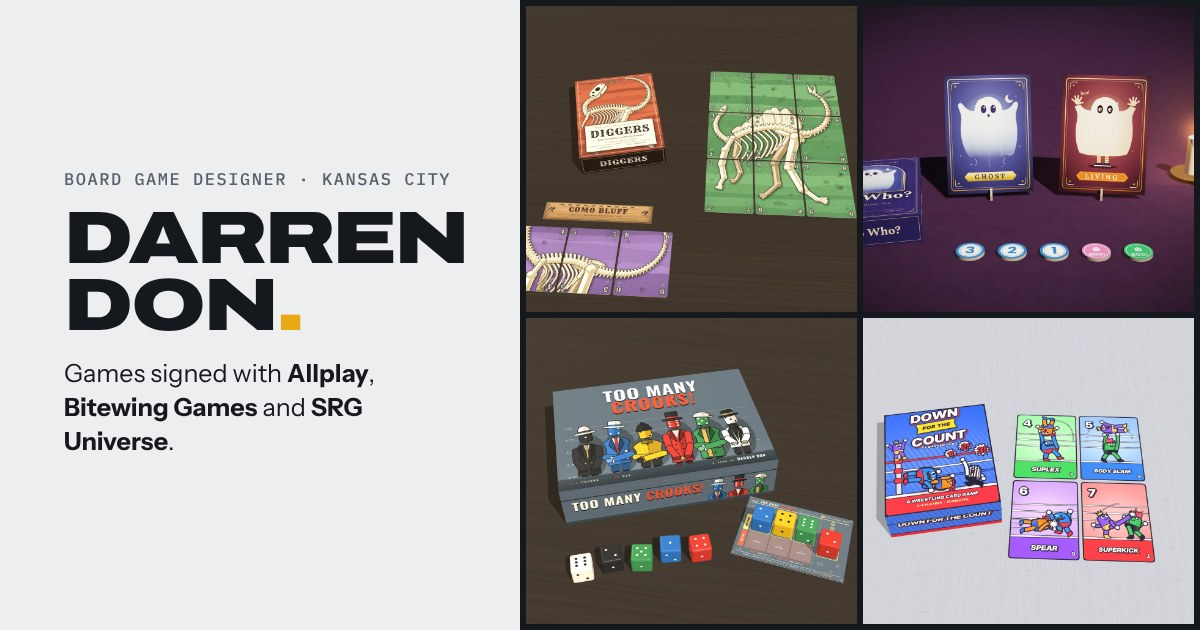
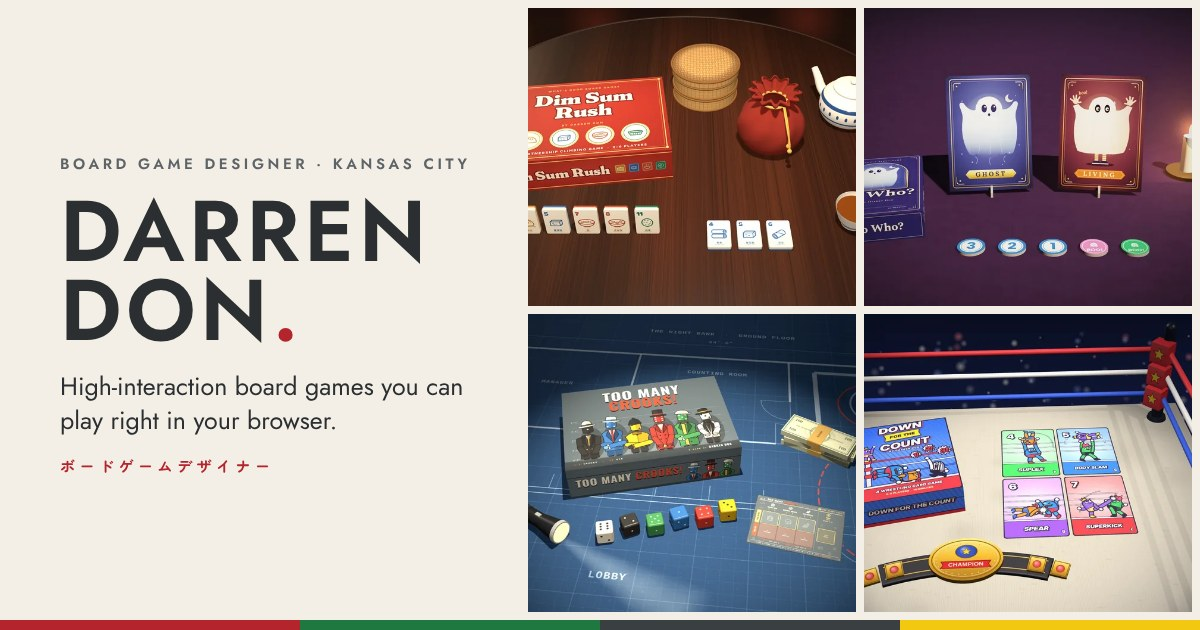
Down for the Count: themed ring render; new site share image
New ?scene=themed preset (zero overlaps): box, four move cards and a championship belt
inside a wrestling ring. First image on its page and the cards. Every card's image now
fills its frame. Site share image rebuilt in the new palette and type with four themed
renders.

Claude-Session: https://claude.ai/code/session_0173vR462e8fzA9Jk4LU5kv7

diff --git a/games/down-for-the-count/img/src/scene.html b/games/down-for-the-count/img/src/scene.html
@@ -155,9 +155,238 @@
     frame([-12.0, 0, -4.2], [13.0, 1.25, 4.4], 64, 0, 0.97);
   }
 
+  if (SCENE === 'themed') await themed();
+
   renderer.render(scene, camera);
   await new Promise((r) => setTimeout(r, 60)); renderer.render(scene, camera);
+  if (q.get('check')) window.__check = doCheck();
   window.__done = true;
+
+  // ================================================================ ?scene=themed
+  // The box and a run of move cards laid out inside the ring: a canvas mat under an arena spotlight,
+  // a corner post with its turnbuckles and three ropes running off along the back and right side,
+  // the crowd dark beyond the apron, and a championship belt on the mat.
+  // (Everything here is new and only built for this preset; the other scenes are untouched.)
+  async function themed() {
+    const named = (o, n) => { o.name = n; return o; };
+    // what the silhouette check looks at: everything that sits on the mat
+    window.__objs = [];
+    const track = (o, n, env) => { named(o, n); window.__objs.push({ o, env: !!env }); return o; };
+
+    // ---- arena: dark house, a spotlight on the ring
+    table.visible = false;
+    scene.fog = new THREE.Fog(C('#0E1430'), 46, 95);
+    function arenaTexture() {
+      const c = document.createElement('canvas'); c.width = 1600; c.height = 1000; const g = c.getContext('2d');
+      const grd = g.createLinearGradient(0, 0, 0, 1000); grd.addColorStop(0, '#0A0E22'); grd.addColorStop(0.5, '#141C40'); grd.addColorStop(1, '#0E1430');
+      g.fillStyle = grd; g.fillRect(0, 0, 1600, 1000);
+      let s = 11; const r = () => (s = (s * 9301 + 49297) % 233280) / 233280;
+      // crowd: soft out-of-focus camera flashes and phone lights in the stands
+      for (let i = 0; i < 140; i++) {
+        const x = r() * 1600, y = 60 + r() * 380, rad = 4 + r() * 16, hue = r();
+        const col = hue < 0.55 ? '255,240,215' : hue < 0.8 ? '150,180,255' : '255,120,120';
+        const rg = g.createRadialGradient(x, y, 0, x, y, rad); rg.addColorStop(0, 'rgba(' + col + ',' + (0.18 + r() * 0.35) + ')'); rg.addColorStop(1, 'rgba(' + col + ',0)');
+        g.fillStyle = rg; g.beginPath(); g.arc(x, y, rad, 0, Math.PI * 2); g.fill();
+      }
+      const t = new THREE.CanvasTexture(c); t.encoding = THREE.sRGBEncoding; return t;
+    }
+    scene.background = arenaTexture();
+
+    // the same key / rim / fill as every other still, a touch lower so the spotlight pool reads
+    key.intensity = 0.26; rim.intensity = 0.22; fill.intensity = 0.06;
+    scene.children.filter((o) => o.isHemisphereLight).forEach((h) => { h.intensity = 0.13; h.color = C('#EEF0FF'); h.groundColor = C('#3A3550'); });
+    const spot = new THREE.SpotLight(0xfff4e0, 1.35, 0, 0.3, 0.65, 1.0);
+    spot.position.set(0.4, 34, 4); spot.target.position.set(0.2, 0, 0.0); scene.add(spot); scene.add(spot.target);
+    const blueWash = new THREE.DirectionalLight(0x7f9cff, 0.12); blueWash.position.set(-12, 6, -14); scene.add(blueWash);
+
+    // ---- the ring: canvas mat over a padded apron
+    const PX = 7.5, PZ = -5.5; // the corner post
+    function canvasTexture() {
+      const c = document.createElement('canvas'); c.width = c.height = 1024; const g = c.getContext('2d');
+      g.fillStyle = '#F1EEE6'; g.fillRect(0, 0, 1024, 1024);
+      let s = 3; const r = () => (s = (s * 9301 + 49297) % 233280) / 233280;
+      for (let i = 0; i < 1024; i += 3) { g.fillStyle = 'rgba(255,255,255,' + (0.03 + r() * 0.03) + ')'; g.fillRect(0, i, 1024, 1); g.fillStyle = 'rgba(40,30,20,' + (0.025 + r() * 0.03) + ')'; g.fillRect(i, 0, 1, 1024); }
+      for (let i = 0; i < 1400; i++) { g.fillStyle = 'rgba(' + (r() < .5 ? '255,255,255' : '50,40,30') + ',' + (0.02 + r() * 0.05) + ')'; g.fillRect(r() * 1024, r() * 1024, 2 + r() * 12, 1 + r() * 2); }
+      // scuffs from boots
+      for (let i = 0; i < 26; i++) { const x = r() * 1024, y = r() * 1024, rad = 20 + r() * 70; const rg = g.createRadialGradient(x, y, 0, x, y, rad); rg.addColorStop(0, 'rgba(90,80,70,0.07)'); rg.addColorStop(1, 'rgba(90,80,70,0)'); g.fillStyle = rg; g.fillRect(x - rad, y - rad, rad * 2, rad * 2); }
+      const t = new THREE.CanvasTexture(c); t.wrapS = t.wrapT = THREE.RepeatWrapping; t.repeat.set(4, 4); t.encoding = THREE.sRGBEncoding; t.anisotropy = 8; return t;
+    }
+    const matW = 80, matD = 80, edge = 1.3;
+    const mat = new THREE.Mesh(new THREE.BoxGeometry(matW, 0.6, matD), [
+      new THREE.MeshStandardMaterial({ color: C('#1E3FA8'), roughness: 0.8 }), new THREE.MeshStandardMaterial({ color: C('#1E3FA8'), roughness: 0.8 }),
+      new THREE.MeshStandardMaterial({ map: canvasTexture(), roughness: 0.96, color: C('#C6C3BC') }), new THREE.MeshStandardMaterial({ color: C('#111' ) }),
+      new THREE.MeshStandardMaterial({ color: C('#1E3FA8'), roughness: 0.8 }), new THREE.MeshStandardMaterial({ color: C('#1E3FA8'), roughness: 0.8 })]);
+    mat.position.set(PX + edge - matW / 2, -0.3, PZ - edge + matD / 2); mat.receiveShadow = true; scene.add(mat);
+    // the apron skirt hanging below the mat edge
+    const apron = new THREE.Mesh(new THREE.BoxGeometry(matW, 14, matD), new THREE.MeshStandardMaterial({ color: C('#16307F'), roughness: 0.9 }));
+    apron.position.set(mat.position.x, -7.6, mat.position.z); scene.add(apron);
+
+    // ---- the corner: steel post, three padded turnbuckles, ropes red / white / blue
+    const corner = new THREE.Group();
+    const steel = new THREE.MeshStandardMaterial({ color: C('#3A3F4C'), roughness: 0.35, metalness: 0.75 });
+    const post = new THREE.Mesh(new THREE.CylinderGeometry(0.25, 0.28, 4.7, 32), steel); post.position.y = 2.35; post.castShadow = true; corner.add(post);
+    const cap = new THREE.Mesh(new THREE.SphereGeometry(0.26, 24, 12, 0, Math.PI * 2, 0, Math.PI / 2), steel); cap.position.y = 4.7; corner.add(cap);
+    const base = new THREE.Mesh(new THREE.CylinderGeometry(0.42, 0.47, 0.16, 32), steel); base.position.y = 0.08; base.castShadow = true; corner.add(base);
+    const ropeH = [1.4, 2.55, 3.7], ropeCol = ['#2F5BE0', '#F4F2EE', '#E8313A'], ropeR = 0.12;
+    function padTexture(col) {
+      const c = document.createElement('canvas'); c.width = 256; c.height = 256; const g = c.getContext('2d');
+      g.fillStyle = col; g.fillRect(0, 0, 256, 256);
+      const grd = g.createLinearGradient(0, 0, 0, 256); grd.addColorStop(0, 'rgba(255,255,255,0.18)'); grd.addColorStop(0.5, 'rgba(255,255,255,0)'); grd.addColorStop(1, 'rgba(0,0,0,0.22)');
+      g.fillStyle = grd; g.fillRect(0, 0, 256, 256);
+      // a yellow comic star, like the box
+      g.save(); g.translate(128, 128); g.fillStyle = '#FFD233'; g.strokeStyle = '#1B1A2A'; g.lineWidth = 9; g.beginPath();
+      for (let i = 0; i < 10; i++) { const a = -Math.PI / 2 + i * Math.PI / 5, rr2 = i % 2 ? 34 : 78; g.lineTo(Math.cos(a) * rr2, Math.sin(a) * rr2); }
+      g.closePath(); g.stroke(); g.fill(); g.restore();
+      const t = new THREE.CanvasTexture(c); t.encoding = THREE.sRGBEncoding; return t;
+    }
+    const padTex = padTexture('#E8313A');
+    const padMat = new THREE.MeshStandardMaterial({ map: padTex, roughness: 0.55 });
+    const padSide = new THREE.MeshStandardMaterial({ color: C('#D52A33'), roughness: 0.55 });
+    for (let i = 0; i < 3; i++) {
+      const y = ropeH[i];
+      // the pad wraps the post on the ring side, facing the middle of the ring (toward -x, +z)
+      const pad = new THREE.Mesh(new THREE.BoxGeometry(0.88, 0.96, 0.64), [padSide, padSide, padSide, padSide, padMat, padSide]);
+      pad.position.set(-0.31, y, 0.31); pad.rotation.y = -Math.PI / 4; pad.castShadow = true; corner.add(pad);
+      const ropeM = new THREE.MeshStandardMaterial({ color: C(ropeCol[i]), roughness: 0.5 });
+      // along the back edge, off to the left
+      const backRope = new THREE.Mesh(new THREE.CylinderGeometry(ropeR, ropeR, 70, 16), ropeM);
+      backRope.rotation.z = Math.PI / 2; backRope.position.set(-35, y, 0); backRope.castShadow = true; corner.add(backRope);
+      // down the right side, toward the camera
+      const sideRope = new THREE.Mesh(new THREE.CylinderGeometry(ropeR, ropeR, 70, 16), ropeM);
+      sideRope.rotation.x = Math.PI / 2; sideRope.position.set(0, y, 35); sideRope.castShadow = true; corner.add(sideRope);
+    }
+    corner.position.set(PX, 0, PZ); scene.add(corner);
+    track(corner, 'ring corner (post, turnbuckles, ropes)', true);
+
+    // ---- the championship belt, laid flat on the mat
+    function plateTexture() {
+      const c = document.createElement('canvas'); c.width = 1024; c.height = 768; const g = c.getContext('2d');
+      const gold = (y0, y1) => { const gr = g.createLinearGradient(0, y0, 0, y1); gr.addColorStop(0, '#FFE58A'); gr.addColorStop(0.45, '#E8B530'); gr.addColorStop(1, '#A8751A'); return gr; };
+      g.fillStyle = gold(0, 768); g.fillRect(0, 0, 1024, 768);
+      g.strokeStyle = '#8A5E12'; g.lineWidth = 14; g.beginPath(); g.ellipse(512, 384, 470, 340, 0, 0, Math.PI * 2); g.stroke();
+      g.strokeStyle = '#FFF2B8'; g.lineWidth = 5; g.beginPath(); g.ellipse(512, 384, 440, 312, 0, 0, Math.PI * 2); g.stroke();
+      // studs round the rim
+      for (let i = 0; i < 28; i++) { const a = i / 28 * Math.PI * 2; const x = 512 + Math.cos(a) * 405, y = 384 + Math.sin(a) * 282; g.fillStyle = '#FFF4C4'; g.beginPath(); g.arc(x, y, 9, 0, 7); g.fill(); g.fillStyle = '#9A6A16'; g.beginPath(); g.arc(x + 2, y + 2, 5, 0, 7); g.fill(); }
+      // red banner + text
+      g.fillStyle = '#D9262F'; g.strokeStyle = '#6E1015'; g.lineWidth = 8;
+      g.beginPath(); g.moveTo(170, 430); g.lineTo(854, 430); g.lineTo(820, 490); g.lineTo(854, 550); g.lineTo(170, 550); g.lineTo(204, 490); g.closePath(); g.fill(); g.stroke();
+      g.font = '900 88px Arial Black, Arial, sans-serif'; g.textAlign = 'center'; g.textBaseline = 'middle';
+      g.fillStyle = '#FFF4D0'; g.fillText('CHAMPION', 512, 494);
+      // the big blue gem with a star
+      g.fillStyle = '#2348C8'; g.strokeStyle = '#8A5E12'; g.lineWidth = 12; g.beginPath(); g.ellipse(512, 255, 150, 120, 0, 0, 7); g.fill(); g.stroke();
+      const gg = g.createRadialGradient(470, 210, 10, 512, 255, 150); gg.addColorStop(0, 'rgba(255,255,255,0.55)'); gg.addColorStop(0.5, 'rgba(255,255,255,0.05)'); gg.addColorStop(1, 'rgba(0,0,40,0.25)');
+      g.fillStyle = gg; g.beginPath(); g.ellipse(512, 255, 150, 120, 0, 0, 7); g.fill();
+      g.save(); g.translate(512, 258); g.fillStyle = '#FFD233'; g.strokeStyle = '#7A5210'; g.lineWidth = 6; g.beginPath();
+      for (let i = 0; i < 10; i++) { const a = -Math.PI / 2 + i * Math.PI / 5, rr2 = i % 2 ? 30 : 72; g.lineTo(Math.cos(a) * rr2, Math.sin(a) * rr2); }
+      g.closePath(); g.fill(); g.stroke(); g.restore();
+      const t = new THREE.CanvasTexture(c); t.encoding = THREE.sRGBEncoding; t.anisotropy = 8; return t;
+    }
+    function sideTexture() {
+      const c = document.createElement('canvas'); c.width = 256; c.height = 256; const g = c.getContext('2d');
+      const gr = g.createLinearGradient(0, 0, 0, 256); gr.addColorStop(0, '#FFE58A'); gr.addColorStop(0.5, '#E2AE2C'); gr.addColorStop(1, '#A8751A');
+      g.fillStyle = gr; g.fillRect(0, 0, 256, 256);
+      g.strokeStyle = '#8A5E12'; g.lineWidth = 12; g.strokeRect(14, 14, 228, 228);
+      g.fillStyle = '#D9262F'; g.strokeStyle = '#7A5210'; g.lineWidth = 8; g.beginPath(); g.arc(128, 128, 62, 0, 7); g.fill(); g.stroke();
+      const gg = g.createRadialGradient(108, 105, 4, 128, 128, 62); gg.addColorStop(0, 'rgba(255,255,255,0.6)'); gg.addColorStop(1, 'rgba(255,255,255,0)'); g.fillStyle = gg; g.beginPath(); g.arc(128, 128, 62, 0, 7); g.fill();
+      const t = new THREE.CanvasTexture(c); t.encoding = THREE.sRGBEncoding; return t;
+    }
+    function belt(x, z, yaw) {
+      const g = new THREE.Group();
+      const leather = new THREE.MeshStandardMaterial({ color: C('#1A1720'), roughness: 0.6 });
+      const stitch = new THREE.MeshStandardMaterial({ color: C('#C9A24A'), roughness: 0.6 });
+      // the strap: a gentle arc, bowed toward the camera
+      const R0 = 9.6, ang = 0.62, sw = 0.88, th = 0.1;
+      const sh = new THREE.Shape();
+      sh.absarc(0, 0, R0 + sw / 2, Math.PI / 2 - ang / 2, Math.PI / 2 + ang / 2, false);
+      sh.absarc(0, 0, R0 - sw / 2, Math.PI / 2 + ang / 2, Math.PI / 2 - ang / 2, true);
+      const strapGeo = new THREE.ExtrudeGeometry(sh, { depth: th, bevelEnabled: true, bevelThickness: 0.03, bevelSize: 0.05, bevelSegments: 2, curveSegments: 48 });
+      const strap = new THREE.Mesh(strapGeo, leather); strap.rotation.x = Math.PI / 2; strap.position.set(0, th + 0.03, -R0); strap.castShadow = true; strap.receiveShadow = true;
+      // after rotation the arc's apex sits at z = 0, its ends curve back (-z): flip so the bow faces the camera
+      const strapG = new THREE.Group(); strapG.add(strap); strapG.rotation.y = Math.PI; g.add(strapG);
+      // gold stitching lines along both edges
+      for (const off of [-sw / 2 + 0.16, sw / 2 - 0.16]) {
+        const curve = new THREE.EllipseCurve(0, 0, R0 + off, R0 + off, Math.PI / 2 - ang / 2 + 0.01, Math.PI / 2 + ang / 2 - 0.01, false);
+        const pts = curve.getPoints(80).map((p) => new THREE.Vector3(p.x, 0, -p.y + R0));
+        const tube = new THREE.Mesh(new THREE.TubeGeometry(new THREE.CatmullRomCurve3(pts), 120, 0.022, 6), stitch);
+        tube.position.y = th + 0.065; g.add(tube);
+      }
+      // the centre plate
+      const plateGeo = new THREE.CylinderGeometry(1, 1, 0.16, 64); plateGeo.scale(1.32, 1, 1.0);
+      const goldM = new THREE.MeshStandardMaterial({ color: C('#D9A63A'), roughness: 0.3, metalness: 0.8 });
+      const plate = new THREE.Mesh(plateGeo, [goldM, new THREE.MeshStandardMaterial({ map: (() => { const t = plateTexture(); t.center.set(0.5, 0.5); t.rotation = Math.PI / 2; return t; })(), roughness: 0.32, metalness: 0.35 }), goldM]);
+      plate.position.y = th + 0.12; plate.castShadow = true; g.add(plate);
+      // fix the top cap's UVs so the art maps to the ellipse
+      // side plates along the strap
+      const sideM = new THREE.MeshStandardMaterial({ map: sideTexture(), roughness: 0.32, metalness: 0.35 });
+      for (const sgn of [-1, 1]) for (const k of [1, 2]) {
+        const a = sgn * (0.175 + k * 0.088);
+        const sp = new THREE.Mesh(new THREE.BoxGeometry(0.6, 0.09, 0.68), [goldM, goldM, sideM, goldM, goldM, goldM]);
+        sp.position.set(Math.sin(a) * R0, th + 0.09, R0 - Math.cos(a) * R0); sp.rotation.y = -a; sp.castShadow = true; g.add(sp);
+      }
+      g.position.set(x, 0, z); g.rotation.y = yaw; scene.add(g); return g;
+    }
+
+    // ---- the components
+    track(await box(-4.1, -1.3, 0.2), 'box');
+    for (let k = 0; k < 4; k++) track(await card(4 + k, 1.1 + (k % 2) * P, -3.0 + Math.floor(k / 2) * (CH + GAP), 0), 'card ' + (4 + k));
+    track(belt(-1.5, 3.55, 0), 'belt');
+
+    { // camera: looking slightly down the ring toward the corner
+      const el = +(q.get('el') || 38) * Math.PI / 180, az = +(q.get('az') || -3) * Math.PI / 180, dist = +(q.get('d') || 24.5);
+      const tgt = new THREE.Vector3(+(q.get('tx') || 1.0), 0, +(q.get('tz') || -2.2));
+      camera.position.set(tgt.x + Math.sin(az) * Math.cos(el) * dist, Math.sin(el) * dist, tgt.z + Math.cos(az) * Math.cos(el) * dist);
+      camera.lookAt(tgt); camera.updateMatrixWorld(); camera.updateProjectionMatrix();
+    }
+    // a soft vignette, the arena falling off to dark round the spotlight
+    {
+      const c = document.createElement('canvas'); c.width = 512; c.height = 320; const g = c.getContext('2d');
+      const rg = g.createRadialGradient(256, 170, 60, 256, 170, 330); rg.addColorStop(0, 'rgba(6,8,24,0)'); rg.addColorStop(0.55, 'rgba(6,8,24,0.06)'); rg.addColorStop(1, 'rgba(6,8,24,0.5)');
+      g.fillStyle = rg; g.fillRect(0, 0, 512, 320);
+      const vt = new THREE.CanvasTexture(c); vt.encoding = THREE.sRGBEncoding;
+      const hh = 2 * Math.tan(camera.fov * Math.PI / 360);
+      const vig = new THREE.Mesh(new THREE.PlaneGeometry(hh * camera.aspect, hh), new THREE.MeshBasicMaterial({ map: vt, transparent: true, depthTest: false, depthWrite: false, fog: false }));
+      vig.position.z = -1; vig.renderOrder = 999; vig.name = 'vignette'; camera.add(vig); scene.add(camera);
+    }
+  }
+
+  // per-object silhouette check: each tracked object rendered alone as a white mask; pairs compared for
+  // overlap and for coming within 3 px; anything touching the frame edge reported as cut
+  function doCheck() {
+    const gl = renderer.getContext(), W = gl.drawingBufferWidth, H = gl.drawingBufferHeight;
+    const list = window.__objs || [], all = scene.children.slice(), vis = all.map((o) => o.visible);
+    const bg = scene.background; scene.background = null; scene.overrideMaterial = new THREE.MeshBasicMaterial({ color: 0xffffff });
+    const buf = new Uint8Array(W * H * 4), masks = [];
+    for (const it of list) {
+      all.forEach((o) => { o.visible = o === it.o; }); // unlit white masks: no lights, no shadow pass
+      renderer.setClearColor(0x000000, 1); renderer.clear(); renderer.render(scene, camera);
+      gl.readPixels(0, 0, W, H, gl.RGBA, gl.UNSIGNED_BYTE, buf);
+      const m = new Uint8Array(W * H); let n = 0;
+      for (let k = 0; k < W * H; k++) if (buf[k * 4] > 20) { m[k] = 1; n++; } // the canvas has no alpha: white object on black
+      masks.push({ name: it.o.name, env: it.env, m, n });
+    }
+    all.forEach((o, j) => o.visible = vis[j]); scene.overrideMaterial = null; scene.background = bg;
+    const R = 3;
+    function dilate(m) {
+      const a = new Uint8Array(W * H), b = new Uint8Array(W * H);
+      for (let y = 0; y < H; y++) for (let x = 0; x < W; x++) { let v = 0; for (let dx = -R; dx <= R && !v; dx++) { const xx = x + dx; if (xx >= 0 && xx < W && m[y * W + xx]) v = 1; } a[y * W + x] = v; }
+      for (let y = 0; y < H; y++) for (let x = 0; x < W; x++) { let v = 0; for (let dy = -R; dy <= R && !v; dy++) { const yy = y + dy; if (yy >= 0 && yy < H && a[yy * W + x]) v = 1; } b[y * W + x] = v; }
+      return b;
+    }
+    const res = { objects: masks.length, overlap: [], near: [], cut: [], empty: [], env: [] };
+    masks.forEach((o) => { if (!o.n) res.empty.push(o.name); });
+    const dil = masks.map((o) => dilate(o.m));
+    for (let i = 0; i < masks.length; i++) for (let j = i + 1; j < masks.length; j++) {
+      let ov = 0, nr = 0; const A = masks[i].m, B = masks[j].m, DA = dil[i];
+      for (let k = 0; k < W * H; k++) { if (B[k]) { if (A[k]) ov++; else if (DA[k]) nr++; } }
+      if (ov) res.overlap.push([masks[i].name, masks[j].name, ov]); else if (nr) res.near.push([masks[i].name, masks[j].name, nr]);
+    }
+    masks.forEach((o) => { const m = o.m; let c = 0;
+      for (let x = 0; x < W; x++) { if (m[x]) c++; if (m[(H - 1) * W + x]) c++; }
+      for (let y = 0; y < H; y++) { if (m[y * W]) c++; if (m[y * W + W - 1]) c++; }
+      if (c) (o.env ? res.env : res.cut).push(o.name + ' (' + c + ' px)'); });
+    renderer.render(scene, camera);
+    return res;
+  }
 })();
 </script>
 </body></html>

diff --git a/assets/img/src/og.html b/assets/img/src/og.html
@@ -1,17 +1,18 @@
 <!doctype html><html><head><meta charset="utf-8"><link rel="stylesheet" href="/assets/css/fonts.css"><style>
-/* source for /assets/img/og.jpg (1200 x 630): name and credits left, four game renders right */
+/* source for /assets/img/og.jpg (1200 x 630): name and color blocks left, four game renders right */
 html,body{margin:0}
-#og{width:1200px;height:630px;display:grid;grid-template-columns:520px 1fr;background:#ECEEEF;color:#15181D;font-family:"Instrument Sans",Arial,sans-serif}
-.l{padding:0 48px 0 64px;display:flex;flex-direction:column;justify-content:center;gap:18px}
-.k{font:500 17px/1 "IBM Plex Mono",monospace;letter-spacing:.09em;text-transform:uppercase;color:#58606B}
-h1{margin:0;font:900 74px/.9 Archivo,sans-serif;font-stretch:125%;letter-spacing:-.025em;text-transform:uppercase}
-h1 i{font-style:normal;color:#E9A814}
-p{margin:0;font-size:25px;line-height:1.35}
-p b{font-weight:700}
-.r{display:grid;grid-template-columns:1fr 1fr;grid-template-rows:1fr 1fr;gap:6px;padding:6px;background:#15181D}
+#og{width:1200px;height:630px;display:grid;grid-template-columns:520px 1fr;background:#F3EFE6;color:#2B2F31;font-family:Jost,Arial,sans-serif;position:relative}
+#og::after{content:"";position:absolute;left:0;right:0;bottom:0;height:10px;background:linear-gradient(90deg,#B3242C 0 25%,#1F7840 25% 50%,#3A3F42 50% 75%,#F2C811 75%)}
+.l{padding:0 44px 0 60px;display:flex;flex-direction:column;justify-content:center;gap:20px}
+.k{font:600 15px/1 Jost,sans-serif;letter-spacing:.24em;text-transform:uppercase;color:#5D6366}
+h1{margin:0;font:600 86px/.92 Jost,sans-serif;letter-spacing:.05em;text-transform:uppercase}
+h1 i{font-style:normal;color:#B3242C}
+p{margin:0;font-size:25px;line-height:1.35;font-weight:400}
+.jp{font:700 15px/1 "Zen Maru Gothic",sans-serif;letter-spacing:.3em;color:#B3242C}
+.r{display:grid;grid-template-columns:1fr 1fr;grid-template-rows:1fr 1fr;gap:8px;padding:8px 8px 18px 8px}
 .r img{width:100%;height:100%;object-fit:cover;display:block}
 </style></head><body><div id="og">
-<div class="l"><span class="k">Board game designer · Kansas City</span><h1>Darren<br>Don<i>.</i></h1>
-<p>Games signed with <b>Allplay</b>, <b>Bitewing Games</b> and <b>SRG Universe</b>.</p></div>
-<div class="r"><img src="/games/diggers/img/render-hero.webp"><img src="/games/boo-who/img/render-box.webp"><img src="/games/too-many-crooks/img/render-hero.webp"><img src="/games/down-for-the-count/img/render-home.webp"></div>
+<div class="l"><span class="k">Board Game Designer · Kansas City</span><h1>Darren<br>Don<i>.</i></h1>
+<p>High-interaction board games you can play right in your browser.</p><span class="jp">ボードゲームデザイナー</span></div>
+<div class="r"><img src="/games/dim-sum-rush/img/render-scene-800.webp"><img src="/games/boo-who/img/render-box-800.webp"><img src="/games/too-many-crooks/img/render-scene-800.webp"><img src="/games/down-for-the-count/img/render-scene-800.webp"></div>
 </div><script>Promise.all([...document.images].map(i=>i.complete?0:new Promise(r=>i.onload=i.onerror=r))).then(()=>document.fonts.ready).then(()=>window.__done=true)</script></body></html>

diff --git a/games/down-for-the-count/index.html b/games/down-for-the-count/index.html
@@ -67,11 +67,12 @@
 
     <figure class="viewer" style="margin:0" aria-label="Component mockups">
       <div class="stage">
-        <img class="poster" id="hero-img" src="/games/down-for-the-count/img/render-hero.webp" srcset="/games/down-for-the-count/img/render-hero-240.webp 240w, /games/down-for-the-count/img/render-hero-480.webp 480w, /games/down-for-the-count/img/render-hero-800.webp 800w, /games/down-for-the-count/img/render-hero.webp 1600w" sizes="(max-width: 600px) 342px, (max-width: 960px) 244px, 210px" width="1600" height="1000" alt="Down for the Count mockup: the bright blue box, showing a pin with the referee counting 1, 2, 3, beside the Suplex, Body Slam, Spear and Superkick cards, with three face-down stamina cards in front.">
+        <img class="poster" id="hero-img" src="/games/down-for-the-count/img/render-scene-1200.webp" srcset="/games/down-for-the-count/img/render-scene-480.webp 480w, /games/down-for-the-count/img/render-scene-800.webp 800w, /games/down-for-the-count/img/render-scene-1200.webp 1200w, /games/down-for-the-count/img/render-scene.webp 1600w" sizes="(max-width: 900px) calc(100vw - 40px), 640px" fetchpriority="high" width="1600" height="1000" alt="Down for the Count mockup in a wrestling ring: the box, the Suplex, Body Slam, Spear and Superkick cards and a championship belt, with the ropes and a corner post behind.">
       </div>
       <figcaption class="bar">
         <div class="views" role="group" aria-label="Choose a view">
-          <button type="button" aria-pressed="true" data-src="/games/down-for-the-count/img/render-hero.webp" data-alt="Down for the Count mockup: the bright blue box, showing a pin with the referee counting 1, 2, 3, beside the Suplex, Body Slam, Spear and Superkick cards, with three face-down stamina cards in front.">The box</button>
+          <button type="button" aria-pressed="true" data-src="/games/down-for-the-count/img/render-scene.webp" data-alt="Down for the Count mockup in a wrestling ring: the box, the Suplex, Body Slam, Spear and Superkick cards and a championship belt, with the ropes and a corner post behind.">In the ring</button>
+          <button type="button" aria-pressed="false" data-src="/games/down-for-the-count/img/render-hero.webp" data-alt="Down for the Count mockup: the bright blue box, showing a pin with the referee counting 1, 2, 3, beside the Suplex, Body Slam, Spear and Superkick cards, with three face-down stamina cards in front.">The box</button>
           <button type="button" aria-pressed="false" data-src="/games/down-for-the-count/img/render-table.webp" data-alt="A four-player round in progress: three Moonsault 8s on the table, spent stamina cards face down beside them, and each wrestler’s stamina in a row: three, two, one, and one wrestler with none left.">At the table</button>
           <button type="button" aria-pressed="false" data-src="/games/down-for-the-count/img/render-kit.webp" data-alt="Everything in the box: sixty cards as ten piles of six, one per move from 1 Chop to 10 Frog Splash, a card back and the box.">What’s in the box</button>
         </div>

diff --git a/games/boo-who/index.html b/games/boo-who/index.html
@@ -264,7 +264,7 @@
   <section class="g-sec more-games" aria-labelledby="more-h">
     <div class="wrap">
       <div class="head"><div><p class="label">More from Darren <span class="jp" lang="ja">ゲーム</span></p><h2 id="more-h">More games</h2></div><a class="btn" href="/games/">All games</a></div>
-      <div class="more-grid"><a class="more-card" href="/games/dim-sum-rush/"><span class="more-art"><img src="/games/dim-sum-rush/img/render-scene-640.webp" alt="" loading="lazy" width="640" height="400"></span><b>Dim Sum Rush</b><span>Partnership Climbing · 2–6 Players</span></a><a class="more-card" href="/games/too-many-crooks/"><span class="more-art"><img src="/games/too-many-crooks/img/render-scene-640.webp" alt="" loading="lazy" width="640" height="400"></span><b>Too Many Crooks!</b><span>Dice Negotiation · 3–6 Players</span></a><a class="more-card" href="/games/diggers/"><span class="more-art"><img src="/games/diggers/img/render-scene-640.webp" alt="" loading="lazy" width="640" height="400"></span><b>Diggers</b><span>Shedding Lane Battler · 2–4 Players</span></a><a class="more-card" href="/games/down-for-the-count/"><span class="more-art"><img src="/games/down-for-the-count/img/render-home-640.webp" alt="" loading="lazy" width="640" height="400"></span><b>Down for the Count</b><span>Shedding · 2–5 Players</span></a><a class="more-card" href="/games/un-deux-trois-cat/"><span class="more-art"><img src="/games/un-deux-trois-cat/img/render-scene-640.webp" alt="" loading="lazy" width="640" height="400"></span><b>Un, Deux, Trois, Cat!</b><span>Dexterity · 2–6 Players</span></a></div>
+      <div class="more-grid"><a class="more-card" href="/games/dim-sum-rush/"><span class="more-art"><img src="/games/dim-sum-rush/img/render-scene-640.webp" alt="" loading="lazy" width="640" height="400"></span><b>Dim Sum Rush</b><span>Partnership Climbing · 2–6 Players</span></a><a class="more-card" href="/games/too-many-crooks/"><span class="more-art"><img src="/games/too-many-crooks/img/render-scene-640.webp" alt="" loading="lazy" width="640" height="400"></span><b>Too Many Crooks!</b><span>Dice Negotiation · 3–6 Players</span></a><a class="more-card" href="/games/diggers/"><span class="more-art"><img src="/games/diggers/img/render-scene-640.webp" alt="" loading="lazy" width="640" height="400"></span><b>Diggers</b><span>Shedding Lane Battler · 2–4 Players</span></a><a class="more-card" href="/games/down-for-the-count/"><span class="more-art"><img src="/games/down-for-the-count/img/render-scene-640.webp" alt="" loading="lazy" width="640" height="400"></span><b>Down for the Count</b><span>Shedding · 2–5 Players</span></a><a class="more-card" href="/games/un-deux-trois-cat/"><span class="more-art"><img src="/games/un-deux-trois-cat/img/render-scene-640.webp" alt="" loading="lazy" width="640" height="400"></span><b>Un, Deux, Trois, Cat!</b><span>Dexterity · 2–6 Players</span></a></div>
     </div>
   </section>
 </main>

diff --git a/games/diggers/index.html b/games/diggers/index.html
@@ -279,7 +279,7 @@
   <section class="g-sec more-games" aria-labelledby="more-h">
     <div class="wrap">
       <div class="head"><div><p class="label">More from Darren <span class="jp" lang="ja">ゲーム</span></p><h2 id="more-h">More games</h2></div><a class="btn" href="/games/">All games</a></div>
-      <div class="more-grid"><a class="more-card" href="/games/dim-sum-rush/"><span class="more-art"><img src="/games/dim-sum-rush/img/render-scene-640.webp" alt="" loading="lazy" width="640" height="400"></span><b>Dim Sum Rush</b><span>Partnership Climbing · 2–6 Players</span></a><a class="more-card" href="/games/boo-who/"><span class="more-art"><img src="/games/boo-who/img/render-box-640.webp" alt="" loading="lazy" width="640" height="400"></span><b>Boo Who?</b><span>Bluffing Party · 4–8 Players</span></a><a class="more-card" href="/games/too-many-crooks/"><span class="more-art"><img src="/games/too-many-crooks/img/render-scene-640.webp" alt="" loading="lazy" width="640" height="400"></span><b>Too Many Crooks!</b><span>Dice Negotiation · 3–6 Players</span></a><a class="more-card" href="/games/down-for-the-count/"><span class="more-art"><img src="/games/down-for-the-count/img/render-home-640.webp" alt="" loading="lazy" width="640" height="400"></span><b>Down for the Count</b><span>Shedding · 2–5 Players</span></a><a class="more-card" href="/games/un-deux-trois-cat/"><span class="more-art"><img src="/games/un-deux-trois-cat/img/render-scene-640.webp" alt="" loading="lazy" width="640" height="400"></span><b>Un, Deux, Trois, Cat!</b><span>Dexterity · 2–6 Players</span></a></div>
+      <div class="more-grid"><a class="more-card" href="/games/dim-sum-rush/"><span class="more-art"><img src="/games/dim-sum-rush/img/render-scene-640.webp" alt="" loading="lazy" width="640" height="400"></span><b>Dim Sum Rush</b><span>Partnership Climbing · 2–6 Players</span></a><a class="more-card" href="/games/boo-who/"><span class="more-art"><img src="/games/boo-who/img/render-box-640.webp" alt="" loading="lazy" width="640" height="400"></span><b>Boo Who?</b><span>Bluffing Party · 4–8 Players</span></a><a class="more-card" href="/games/too-many-crooks/"><span class="more-art"><img src="/games/too-many-crooks/img/render-scene-640.webp" alt="" loading="lazy" width="640" height="400"></span><b>Too Many Crooks!</b><span>Dice Negotiation · 3–6 Players</span></a><a class="more-card" href="/games/down-for-the-count/"><span class="more-art"><img src="/games/down-for-the-count/img/render-scene-640.webp" alt="" loading="lazy" width="640" height="400"></span><b>Down for the Count</b><span>Shedding · 2–5 Players</span></a><a class="more-card" href="/games/un-deux-trois-cat/"><span class="more-art"><img src="/games/un-deux-trois-cat/img/render-scene-640.webp" alt="" loading="lazy" width="640" height="400"></span><b>Un, Deux, Trois, Cat!</b><span>Dexterity · 2–6 Players</span></a></div>
     </div>
   </section>
 </main>

diff --git a/games/dim-sum-rush/index.html b/games/dim-sum-rush/index.html
@@ -246,7 +246,7 @@
   <section class="g-sec more-games" aria-labelledby="more-h">
     <div class="wrap">
       <div class="head"><div><p class="label">More from Darren <span class="jp" lang="ja">ゲーム</span></p><h2 id="more-h">More games</h2></div><a class="btn" href="/games/">All games</a></div>
-      <div class="more-grid"><a class="more-card" href="/games/boo-who/"><span class="more-art"><img src="/games/boo-who/img/render-box-640.webp" alt="" loading="lazy" width="640" height="400"></span><b>Boo Who?</b><span>Bluffing Party · 4–8 Players</span></a><a class="more-card" href="/games/too-many-crooks/"><span class="more-art"><img src="/games/too-many-crooks/img/render-scene-640.webp" alt="" loading="lazy" width="640" height="400"></span><b>Too Many Crooks!</b><span>Dice Negotiation · 3–6 Players</span></a><a class="more-card" href="/games/diggers/"><span class="more-art"><img src="/games/diggers/img/render-scene-640.webp" alt="" loading="lazy" width="640" height="400"></span><b>Diggers</b><span>Shedding Lane Battler · 2–4 Players</span></a><a class="more-card" href="/games/down-for-the-count/"><span class="more-art"><img src="/games/down-for-the-count/img/render-home-640.webp" alt="" loading="lazy" width="640" height="400"></span><b>Down for the Count</b><span>Shedding · 2–5 Players</span></a><a class="more-card" href="/games/un-deux-trois-cat/"><span class="more-art"><img src="/games/un-deux-trois-cat/img/render-scene-640.webp" alt="" loading="lazy" width="640" height="400"></span><b>Un, Deux, Trois, Cat!</b><span>Dexterity · 2–6 Players</span></a></div>
+      <div class="more-grid"><a class="more-card" href="/games/boo-who/"><span class="more-art"><img src="/games/boo-who/img/render-box-640.webp" alt="" loading="lazy" width="640" height="400"></span><b>Boo Who?</b><span>Bluffing Party · 4–8 Players</span></a><a class="more-card" href="/games/too-many-crooks/"><span class="more-art"><img src="/games/too-many-crooks/img/render-scene-640.webp" alt="" loading="lazy" width="640" height="400"></span><b>Too Many Crooks!</b><span>Dice Negotiation · 3–6 Players</span></a><a class="more-card" href="/games/diggers/"><span class="more-art"><img src="/games/diggers/img/render-scene-640.webp" alt="" loading="lazy" width="640" height="400"></span><b>Diggers</b><span>Shedding Lane Battler · 2–4 Players</span></a><a class="more-card" href="/games/down-for-the-count/"><span class="more-art"><img src="/games/down-for-the-count/img/render-scene-640.webp" alt="" loading="lazy" width="640" height="400"></span><b>Down for the Count</b><span>Shedding · 2–5 Players</span></a><a class="more-card" href="/games/un-deux-trois-cat/"><span class="more-art"><img src="/games/un-deux-trois-cat/img/render-scene-640.webp" alt="" loading="lazy" width="640" height="400"></span><b>Un, Deux, Trois, Cat!</b><span>Dexterity · 2–6 Players</span></a></div>
     </div>
   </section>
 </main>

diff --git a/games/too-many-crooks/index.html b/games/too-many-crooks/index.html
@@ -248,7 +248,7 @@
   <section class="g-sec more-games" aria-labelledby="more-h">
     <div class="wrap">
       <div class="head"><div><p class="label">More from Darren <span class="jp" lang="ja">ゲーム</span></p><h2 id="more-h">More games</h2></div><a class="btn" href="/games/">All games</a></div>
-      <div class="more-grid"><a class="more-card" href="/games/dim-sum-rush/"><span class="more-art"><img src="/games/dim-sum-rush/img/render-scene-640.webp" alt="" loading="lazy" width="640" height="400"></span><b>Dim Sum Rush</b><span>Partnership Climbing · 2–6 Players</span></a><a class="more-card" href="/games/boo-who/"><span class="more-art"><img src="/games/boo-who/img/render-box-640.webp" alt="" loading="lazy" width="640" height="400"></span><b>Boo Who?</b><span>Bluffing Party · 4–8 Players</span></a><a class="more-card" href="/games/diggers/"><span class="more-art"><img src="/games/diggers/img/render-scene-640.webp" alt="" loading="lazy" width="640" height="400"></span><b>Diggers</b><span>Shedding Lane Battler · 2–4 Players</span></a><a class="more-card" href="/games/down-for-the-count/"><span class="more-art"><img src="/games/down-for-the-count/img/render-home-640.webp" alt="" loading="lazy" width="640" height="400"></span><b>Down for the Count</b><span>Shedding · 2–5 Players</span></a><a class="more-card" href="/games/un-deux-trois-cat/"><span class="more-art"><img src="/games/un-deux-trois-cat/img/render-scene-640.webp" alt="" loading="lazy" width="640" height="400"></span><b>Un, Deux, Trois, Cat!</b><span>Dexterity · 2–6 Players</span></a></div>
+      <div class="more-grid"><a class="more-card" href="/games/dim-sum-rush/"><span class="more-art"><img src="/games/dim-sum-rush/img/render-scene-640.webp" alt="" loading="lazy" width="640" height="400"></span><b>Dim Sum Rush</b><span>Partnership Climbing · 2–6 Players</span></a><a class="more-card" href="/games/boo-who/"><span class="more-art"><img src="/games/boo-who/img/render-box-640.webp" alt="" loading="lazy" width="640" height="400"></span><b>Boo Who?</b><span>Bluffing Party · 4–8 Players</span></a><a class="more-card" href="/games/diggers/"><span class="more-art"><img src="/games/diggers/img/render-scene-640.webp" alt="" loading="lazy" width="640" height="400"></span><b>Diggers</b><span>Shedding Lane Battler · 2–4 Players</span></a><a class="more-card" href="/games/down-for-the-count/"><span class="more-art"><img src="/games/down-for-the-count/img/render-scene-640.webp" alt="" loading="lazy" width="640" height="400"></span><b>Down for the Count</b><span>Shedding · 2–5 Players</span></a><a class="more-card" href="/games/un-deux-trois-cat/"><span class="more-art"><img src="/games/un-deux-trois-cat/img/render-scene-640.webp" alt="" loading="lazy" width="640" height="400"></span><b>Un, Deux, Trois, Cat!</b><span>Dexterity · 2–6 Players</span></a></div>
     </div>
   </section>
 </main>

diff --git a/games/un-deux-trois-cat/index.html b/games/un-deux-trois-cat/index.html
@@ -240,7 +240,7 @@
   <section class="g-sec more-games" aria-labelledby="more-h">
     <div class="wrap">
       <div class="head"><div><p class="label">More from Darren <span class="jp" lang="ja">ゲーム</span></p><h2 id="more-h">More games</h2></div><a class="btn" href="/games/">All games</a></div>
-      <div class="more-grid"><a class="more-card" href="/games/dim-sum-rush/"><span class="more-art"><img src="/games/dim-sum-rush/img/render-scene-640.webp" alt="" loading="lazy" width="640" height="400"></span><b>Dim Sum Rush</b><span>Partnership Climbing · 2–6 Players</span></a><a class="more-card" href="/games/boo-who/"><span class="more-art"><img src="/games/boo-who/img/render-box-640.webp" alt="" loading="lazy" width="640" height="400"></span><b>Boo Who?</b><span>Bluffing Party · 4–8 Players</span></a><a class="more-card" href="/games/too-many-crooks/"><span class="more-art"><img src="/games/too-many-crooks/img/render-scene-640.webp" alt="" loading="lazy" width="640" height="400"></span><b>Too Many Crooks!</b><span>Dice Negotiation · 3–6 Players</span></a><a class="more-card" href="/games/diggers/"><span class="more-art"><img src="/games/diggers/img/render-scene-640.webp" alt="" loading="lazy" width="640" height="400"></span><b>Diggers</b><span>Shedding Lane Battler · 2–4 Players</span></a><a class="more-card" href="/games/down-for-the-count/"><span class="more-art"><img src="/games/down-for-the-count/img/render-home-640.webp" alt="" loading="lazy" width="640" height="400"></span><b>Down for the Count</b><span>Shedding · 2–5 Players</span></a></div>
+      <div class="more-grid"><a class="more-card" href="/games/dim-sum-rush/"><span class="more-art"><img src="/games/dim-sum-rush/img/render-scene-640.webp" alt="" loading="lazy" width="640" height="400"></span><b>Dim Sum Rush</b><span>Partnership Climbing · 2–6 Players</span></a><a class="more-card" href="/games/boo-who/"><span class="more-art"><img src="/games/boo-who/img/render-box-640.webp" alt="" loading="lazy" width="640" height="400"></span><b>Boo Who?</b><span>Bluffing Party · 4–8 Players</span></a><a class="more-card" href="/games/too-many-crooks/"><span class="more-art"><img src="/games/too-many-crooks/img/render-scene-640.webp" alt="" loading="lazy" width="640" height="400"></span><b>Too Many Crooks!</b><span>Dice Negotiation · 3–6 Players</span></a><a class="more-card" href="/games/diggers/"><span class="more-art"><img src="/games/diggers/img/render-scene-640.webp" alt="" loading="lazy" width="640" height="400"></span><b>Diggers</b><span>Shedding Lane Battler · 2–4 Players</span></a><a class="more-card" href="/games/down-for-the-count/"><span class="more-art"><img src="/games/down-for-the-count/img/render-scene-640.webp" alt="" loading="lazy" width="640" height="400"></span><b>Down for the Count</b><span>Shedding · 2–5 Players</span></a></div>
     </div>
   </section>
 </main>

diff --git a/index.html b/index.html
@@ -107,7 +107,7 @@
         </div>
       </a>
       <a class="feature g-dftc" href="/games/down-for-the-count/">
-        <div class="feature-art"><img src="/games/down-for-the-count/img/render-home-1200.webp" srcset="/games/down-for-the-count/img/render-home-640.webp 640w, /games/down-for-the-count/img/render-home-1200.webp 1200w, /games/down-for-the-count/img/render-home.webp 1600w" sizes="(max-width: 600px) calc(100vw - 40px), (max-width: 960px) 50vw, 400px" width="1600" height="1000" loading="lazy" alt="Down for the Count mockup: the bright blue box beside the Suplex, Body Slam, Spear and Superkick cards."></div>
+        <div class="feature-art"><img src="/games/down-for-the-count/img/render-scene-1200.webp" srcset="/games/down-for-the-count/img/render-scene-640.webp 640w, /games/down-for-the-count/img/render-scene-1200.webp 1200w, /games/down-for-the-count/img/render-scene.webp 1600w" sizes="(max-width: 600px) calc(100vw - 40px), (max-width: 960px) 50vw, 400px" width="1600" height="1000" loading="lazy" alt="Down for the Count mockup in a wrestling ring: the box, four move cards and a championship belt, with the ropes and a corner post behind."></div>
         <div class="feature-body">
           <h3>Down for the Count</h3>
           <p>A shedding game where you don’t want to shed. Beat the move or spend stamina to stay in; the last wrestler standing wins.</p>

diff --git a/games/index.html b/games/index.html
@@ -89,7 +89,7 @@
         </div>
       </a>
       <a class="feature g-dftc" href="/games/down-for-the-count/">
-        <div class="feature-art"><img src="/games/down-for-the-count/img/render-home-1200.webp" srcset="/games/down-for-the-count/img/render-home-640.webp 640w, /games/down-for-the-count/img/render-home-1200.webp 1200w, /games/down-for-the-count/img/render-home.webp 1600w" sizes="(max-width: 600px) calc(100vw - 40px), (max-width: 960px) 50vw, 400px" width="1600" height="1000" loading="lazy" alt="Down for the Count mockup: the bright blue box beside the Suplex, Body Slam, Spear and Superkick cards."></div>
+        <div class="feature-art"><img src="/games/down-for-the-count/img/render-scene-1200.webp" srcset="/games/down-for-the-count/img/render-scene-640.webp 640w, /games/down-for-the-count/img/render-scene-1200.webp 1200w, /games/down-for-the-count/img/render-scene.webp 1600w" sizes="(max-width: 600px) calc(100vw - 40px), (max-width: 960px) 50vw, 400px" width="1600" height="1000" loading="lazy" alt="Down for the Count mockup in a wrestling ring: the box, four move cards and a championship belt, with the ropes and a corner post behind."></div>
         <div class="feature-body">
           <h3>Down for the Count</h3>
           <p>A shedding game where you don’t want to shed. Beat the move or spend stamina to stay in; the last wrestler standing wins.</p>

diff --git a/assets/css/site.css b/assets/css/site.css
@@ -329,3 +329,6 @@ a.chip:hover{border-color:var(--red);color:var(--red)}
 .cons .con-year{border-top:1px solid var(--line)}
 .cons .note{grid-column:1/-1}
 @media (max-width:760px){.cons{grid-template-columns:1fr}}
+/* every card shows its themed render edge to edge */
+.feature .feature-art{padding:0}
+.feature .feature-art img{width:100%;height:100%;object-fit:cover}

diff --git a/games/down-for-the-count/img/src/shoot.py b/games/down-for-the-count/img/src/shoot.py
@@ -1,0 +1,44 @@
+"""Shoot stills from scene.html (needs the site served at http://localhost:8765/).
+
+  python3 shoot.py SCENE OUT.png [W H]      -> PNG of the canvas at W x H (default 1600 x 1000)
+  python3 shoot.py --check SCENE [W H]      -> per-object silhouette check (overlaps / too close / cut by frame)
+"""
+import sys, base64, io, json
+from PIL import Image
+from playwright.sync_api import sync_playwright
+
+ARGS = ["--use-angle=swiftshader", "--enable-unsafe-swiftshader", "--ignore-gpu-blocklist"]
+URL = "http://localhost:8765/games/down-for-the-count/img/src/scene.html?scene={s}&w={w}&h={h}{x}"
+
+
+def main():
+    a = sys.argv[1:]
+    check = a and a[0] == "--check"
+    if check: a = a[1:]
+    s = a[0]
+    if check: out, rest = None, a[1:]
+    else: out, rest = a[1], a[2:]
+    w, h = (int(rest[0]), int(rest[1])) if len(rest) >= 2 else (1600, 1000)
+    with sync_playwright() as p:
+        b = p.chromium.launch(args=ARGS)
+        pg = b.new_page(viewport={"width": 800, "height": 500})
+        logs = []
+        pg.on("console", lambda m: logs.append(m.text)); pg.on("pageerror", lambda e: logs.append(str(e)))
+        pg.goto(URL.format(s=s, w=w, h=h, x="&check=1" if check else ""))
+        pg.wait_for_function("window.__done", timeout=600000)
+        if check:
+            r = pg.evaluate("window.__check")
+            print(f"{s}: {r['objects']} objects | overlap {len(r['overlap'])} | too close {len(r['near'])} | cut by frame {len(r['cut'])} | empty {len(r['empty'])}")
+            for k in ("overlap", "near"):
+                for o1, o2, n in r[k]: print(f"   {k}: {o1}  x  {o2}  ({n} px)")
+            for c in r["cut"]: print("   cut:", c)
+            for c in r.get("env", []): print("   environment (runs off frame by design, not checked for cut):", c)
+            for c in r["empty"]: print("   empty:", c)
+        else:
+            data = pg.evaluate("document.querySelector('canvas').toDataURL('image/png')")
+            Image.open(io.BytesIO(base64.b64decode(data.split(",")[1]))).convert("RGB").save(out)
+            print(s, "->", out, logs[:5])
+        b.close()
+
+
+main()
